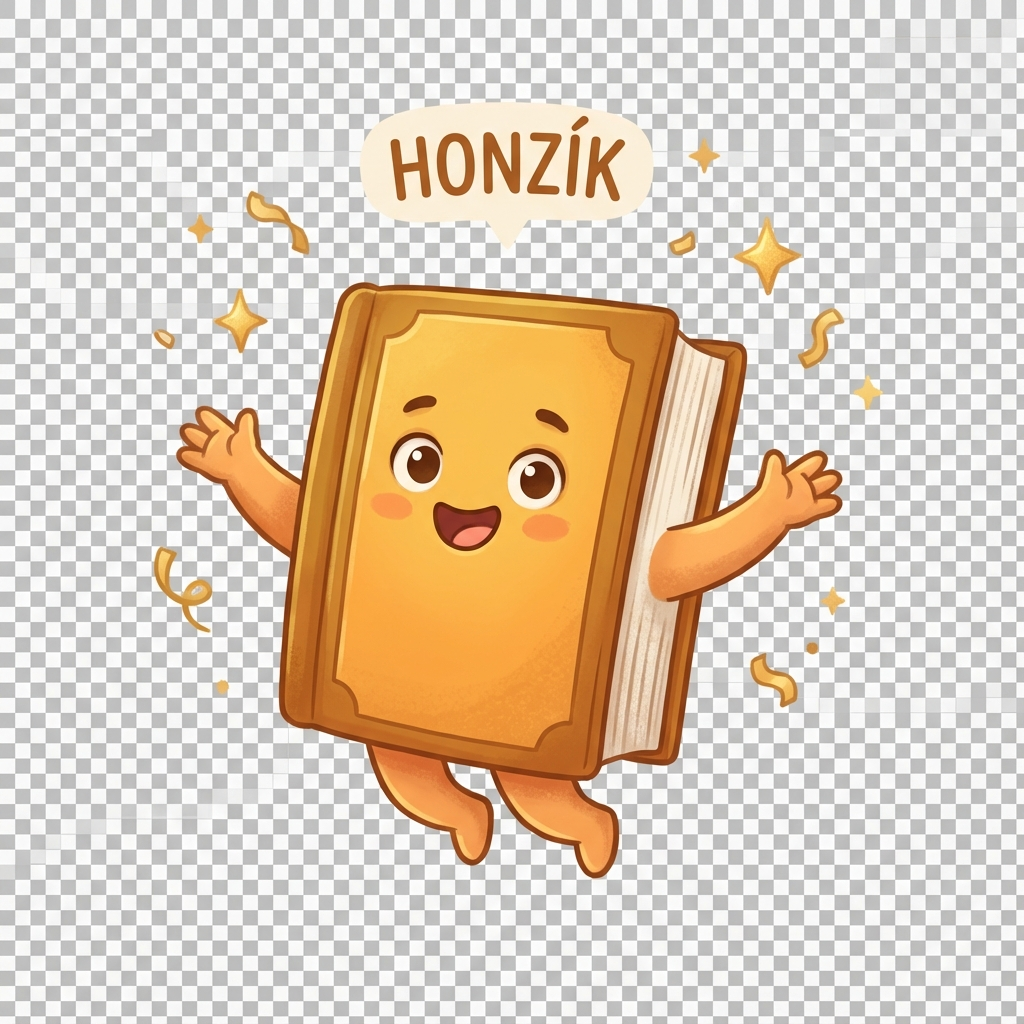
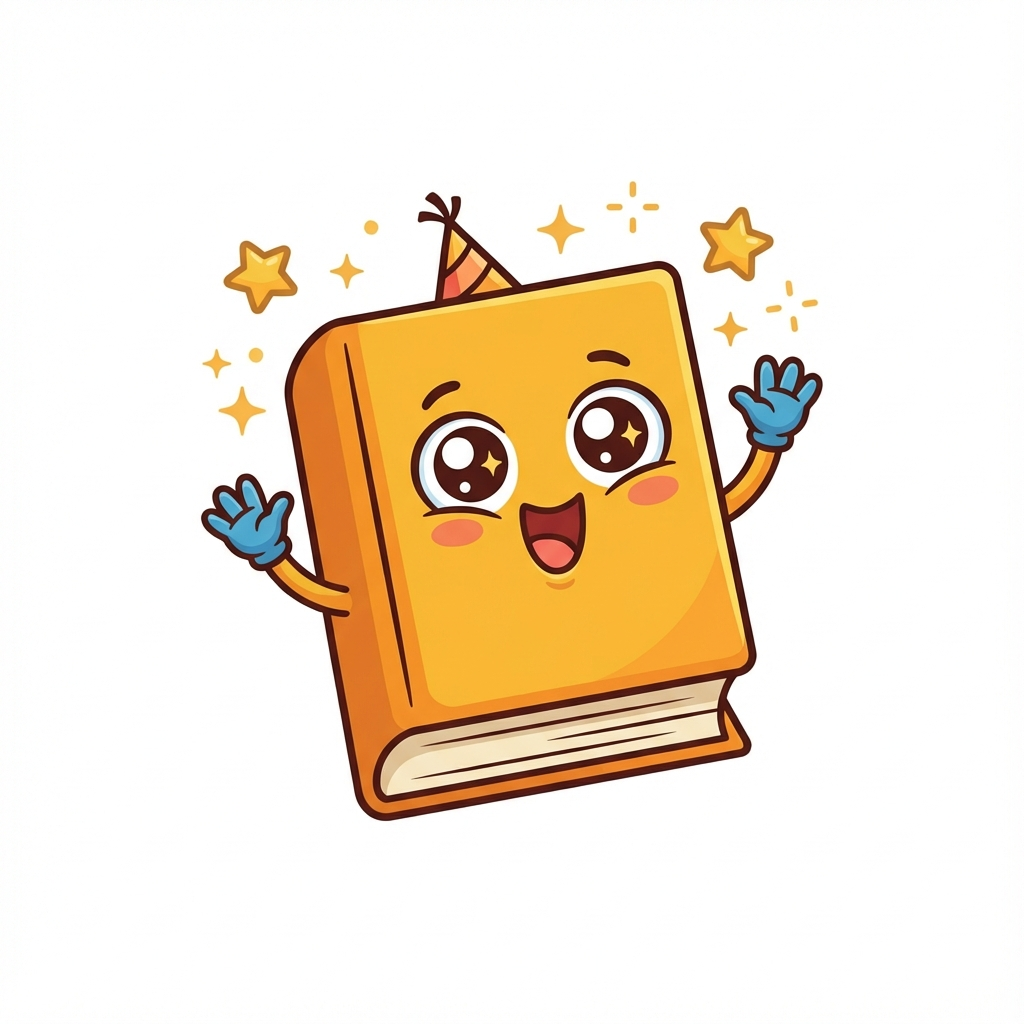
feat(ui): add new mascot images and optimize performance - Replace mascot images with new generated versions - Add Next.js image optimization config - Preload critical images for faster LCP - Add landscape background to dashboard layout

diff --git a/frontend/app/layout.tsx b/frontend/app/layout.tsx
@@ -3,7 +3,7 @@ import { Inter } from "next/font/google"
 import "./globals.css"
 import { Providers } from "./providers"
 
-const inter = Inter({ subsets: ["latin"] })
+const inter = Inter({ subsets: ["latin"], display: "swap" })
 
 export const metadata: Metadata = {
   title: "Mluv.Me - Learn Czech with AI",
@@ -18,6 +18,9 @@ export default function RootLayout({
   return (
     <html lang="en">
       <head>
+        {/* Preload critical images for faster loading */}
+        <link rel="preload" href="/images/backgrounds/fantasy-landscape.png" as="image" />
+        <link rel="preload" href="/images/mascot/honzik-waving.png" as="image" />
         {/* Telegram Web App SDK */}
         <script src="https://telegram.org/js/telegram-web-app.js" async />
       </head>
@@ -27,3 +30,4 @@ export default function RootLayout({
     </html>
   )
 }
+

diff --git a/frontend/next.config.js b/frontend/next.config.js
@@ -4,6 +4,17 @@ const nextConfig = {
     NEXT_PUBLIC_API_URL: process.env.NEXT_PUBLIC_API_URL || 'http://localhost:8000',
     NEXT_PUBLIC_TELEGRAM_BOT_ID: process.env.NEXT_PUBLIC_TELEGRAM_BOT_ID,
   },
+  // Image optimization for faster loading
+  images: {
+    formats: ['image/avif', 'image/webp'],
+    minimumCacheTTL: 60 * 60 * 24 * 30, // 30 days cache
+    deviceSizes: [640, 750, 828, 1080, 1200],
+    imageSizes: [16, 32, 48, 64, 96, 128, 256],
+  },
+  // Compiler optimizations
+  compiler: {
+    removeConsole: process.env.NODE_ENV === 'production',
+  },
   async rewrites() {
     return [
       {
@@ -15,3 +26,4 @@ const nextConfig = {
 }
 
 module.exports = nextConfig
+

diff --git a/frontend/app/dashboard/layout.tsx b/frontend/app/dashboard/layout.tsx
@@ -8,7 +8,7 @@ export default function DashboardLayout({
   children: React.ReactNode
 }) {
   return (
-    <div className="flex min-h-screen bg-gray-50">
+    <div className="flex min-h-screen cream-bg landscape-bg">
       {/* Navigation Sidebar/Bottom Bar */}
       <Navigation />
 
